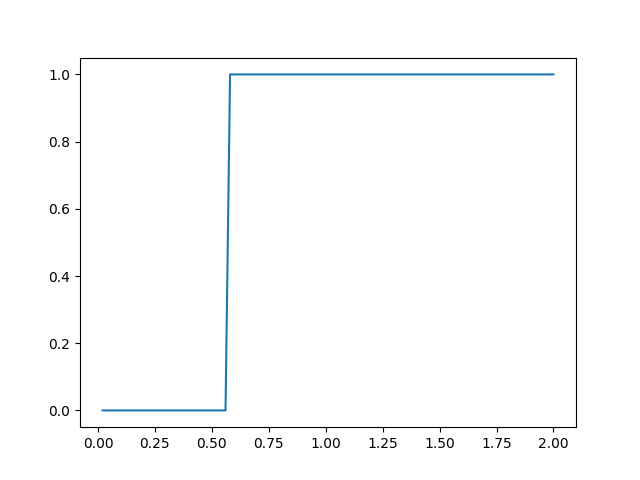
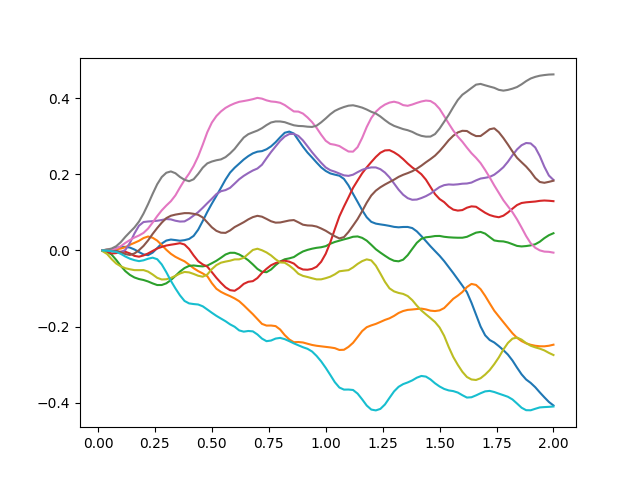
Add foot clearance reward

diff --git a/src/gnoci_gym/env.py b/src/gnoci_gym/env.py
@@ -93,18 +93,19 @@ class GnociGymEnv(gym.Env):
     metadata = {'render_modes': ['rgb_array']}
 
     DEFAULT_REWARD_COEFS = {
-        'stand':        1.0,
-        'velocity':     2.5,
-        'foot_contact': 0.75,
-        'foot_airtime': 0.5,
-        'orientation':  0.1,
-        'heading':      0.3,
-        'yoke_joint':   0.1,
-        'action_mag':   0.005,   # penalty: ||a_t||²  (commanded target velocity)
-        'action_rate':  0.01,    # penalty: ||a_t - a_{t-1}||²  (chatter)
-        'joint_pos':    0.5,   # reward: tolerance() bonus for joints near zero pose
-        'alive':        0.5,     # bonus: added every surviving step
-        'termination':  5.0,     # penalty: subtracted once when the robot falls
+        'stand':          1.0,
+        'velocity':       2.5,
+        'foot_contact':   0.75,
+        'foot_airtime':   0.5,
+        'foot_clearance': 0.5,
+        'orientation':    0.1,
+        'heading':        0.3,
+        'yoke_joint':     0.1,
+        'action_mag':     0.005,  # penalty: ||a_t||²  (commanded target velocity)
+        'action_rate':    0.01,   # penalty: ||a_t - a_{t-1}||²  (chatter)
+        'joint_pos':      0.5,    # reward: tolerance() bonus for joints near zero pose
+        'alive':          0.5,    # bonus: added every surviving step
+        'termination':    5.0,    # penalty: subtracted once when the robot falls
     }
 
     def __init__(
@@ -126,6 +127,11 @@ class GnociGymEnv(gym.Env):
             push_interval_range=(2.0, 5.0),
             max_action_delay=0,
             action_filter_alpha=0.4,
+            # Half the reference walk gait's peak inter-foot height clearance
+            # (~0.043m, computed from reference/xml/walk.xml via ReferenceEnv's
+            # model) — so a step matching the reference's peak swing height
+            # earns full credit (2 * foot_clearance_height == peak clearance).
+            foot_clearance_height=0.02,
             task='stand',
             reward_coefs=None,
             fix_root_body=False,
@@ -158,6 +164,7 @@ class GnociGymEnv(gym.Env):
         self.push_interval_range = push_interval_range
         self.max_action_delay = max_action_delay
         self.action_filter_alpha = action_filter_alpha
+        self.foot_clearance_height = foot_clearance_height
         self.fix_root_body = fix_root_body
         self.metadata['render_fps'] = control_hz
 
@@ -209,6 +216,12 @@ class GnociGymEnv(gym.Env):
         ]
         self.body_id = mujoco.mj_name2id(
             self.model, mujoco.mjtObj.mjOBJ_BODY, "head_base"
+        )
+        self.left_foot_body_id = mujoco.mj_name2id(
+            self.model, mujoco.mjtObj.mjOBJ_BODY, "left_foot_base"
+        )
+        self.right_foot_body_id = mujoco.mj_name2id(
+            self.model, mujoco.mjtObj.mjOBJ_BODY, "right_foot_base"
         )
         try:
             self.floor_geom_id = self.model.geom("floor").id
@@ -441,6 +454,19 @@ class GnociGymEnv(gym.Env):
         self._foot_was_contact = current
         return reward
 
+    def _get_foot_clearance_reward(self):
+        """Reward committing to a step: credit the height difference between the
+        feet so one foot must clearly leave the ground. Exactly 0 when both feet
+        are at the same height (e.g. planted), ramping to 1 once the swing foot
+        is ``2 * foot_clearance_height`` above the stance foot."""
+        threshold = self.foot_clearance_height
+        if threshold <= 0.0:
+            return 0.0
+        lz = self.data.xpos[self.left_foot_body_id][2]
+        rz = self.data.xpos[self.right_foot_body_id][2]
+        clearance = abs(lz - rz)
+        return float(np.clip((clearance - threshold) / threshold, 0.0, 1.0))
+
     def _get_stand_reward(self):
         upright = self._get_root_upright()
         height  = self._get_root_height()
@@ -523,23 +549,25 @@ class GnociGymEnv(gym.Env):
         components['joint_pos'] = c['joint_pos'] * self._get_joint_pos_reward()
 
         if self.task == 'walk':
-            velocity_reward     = self._get_velocity_reward()
-            foot_contact_reward = self._get_foot_contact_reward()
-            foot_airtime_reward = self._get_foot_airtime_reward()
-            orientation_reward  = self._get_orientation_reward()
-            heading_reward      = self._get_heading_reward()
-            yoke_joint_reward   = self._get_yoke_joint_reward()
+            velocity_reward       = self._get_velocity_reward()
+            foot_contact_reward   = self._get_foot_contact_reward()
+            foot_airtime_reward   = self._get_foot_airtime_reward()
+            foot_clearance_reward = self._get_foot_clearance_reward()
+            orientation_reward    = self._get_orientation_reward()
+            heading_reward        = self._get_heading_reward()
+            yoke_joint_reward     = self._get_yoke_joint_reward()
             # stand and velocity are multiplicatively coupled; split them so
             # that stand + velocity == c['stand'] * stand_reward * (1 + ...).
             stand_base = c['stand'] * stand_reward
             components.update({
-                'stand':        stand_base,
-                'velocity':     stand_base * c['velocity'] * velocity_reward,
-                'foot_contact': c['foot_contact'] * foot_contact_reward,
-                'foot_airtime': c['foot_airtime'] * foot_airtime_reward,
-                'orientation':  c['orientation']  * orientation_reward,
-                'heading':      c['heading']      * heading_reward,
-                'yoke_joint':   c['yoke_joint']   * yoke_joint_reward,
+                'stand':          stand_base,
+                'velocity':       stand_base * c['velocity'] * velocity_reward,
+                'foot_contact':   c['foot_contact']   * foot_contact_reward,
+                'foot_airtime':   c['foot_airtime']   * foot_airtime_reward,
+                'foot_clearance': c['foot_clearance'] * foot_clearance_reward,
+                'orientation':    c['orientation']    * orientation_reward,
+                'heading':        c['heading']        * heading_reward,
+                'yoke_joint':     c['yoke_joint']     * yoke_joint_reward,
             })
         else:
             components['stand'] = c['stand'] * stand_reward

diff --git a/example.py b/example.py
@@ -42,6 +42,7 @@ root_heights = []
 root_uprights = []
 
 too_low = []
+states = []
 
 for i in tqdm(range(100)):
 
@@ -59,7 +60,7 @@ for i in tqdm(range(100)):
     # action = np.ones(env.action_space.shape[0])
     # action = env.unwrapped.data.ctrl.copy()
     state, reward, done, truncated, _ = env.step(action)
-
+    states.append(state.copy()[0:10].flatten())
     root_height = env.unwrapped._get_root_height()
     root_upright = env.unwrapped._get_root_upright()
     root_heights.append(root_height)
@@ -85,6 +86,6 @@ for i in tqdm(range(100)):
 
 imageio.mimsave(f'assets/animation.gif', frames, loop=0, fps=30)
 
-plt.plot(times, too_low)
+plt.plot(times, states)
 plt.savefig('assets/root_height.png')
 plt.close()
